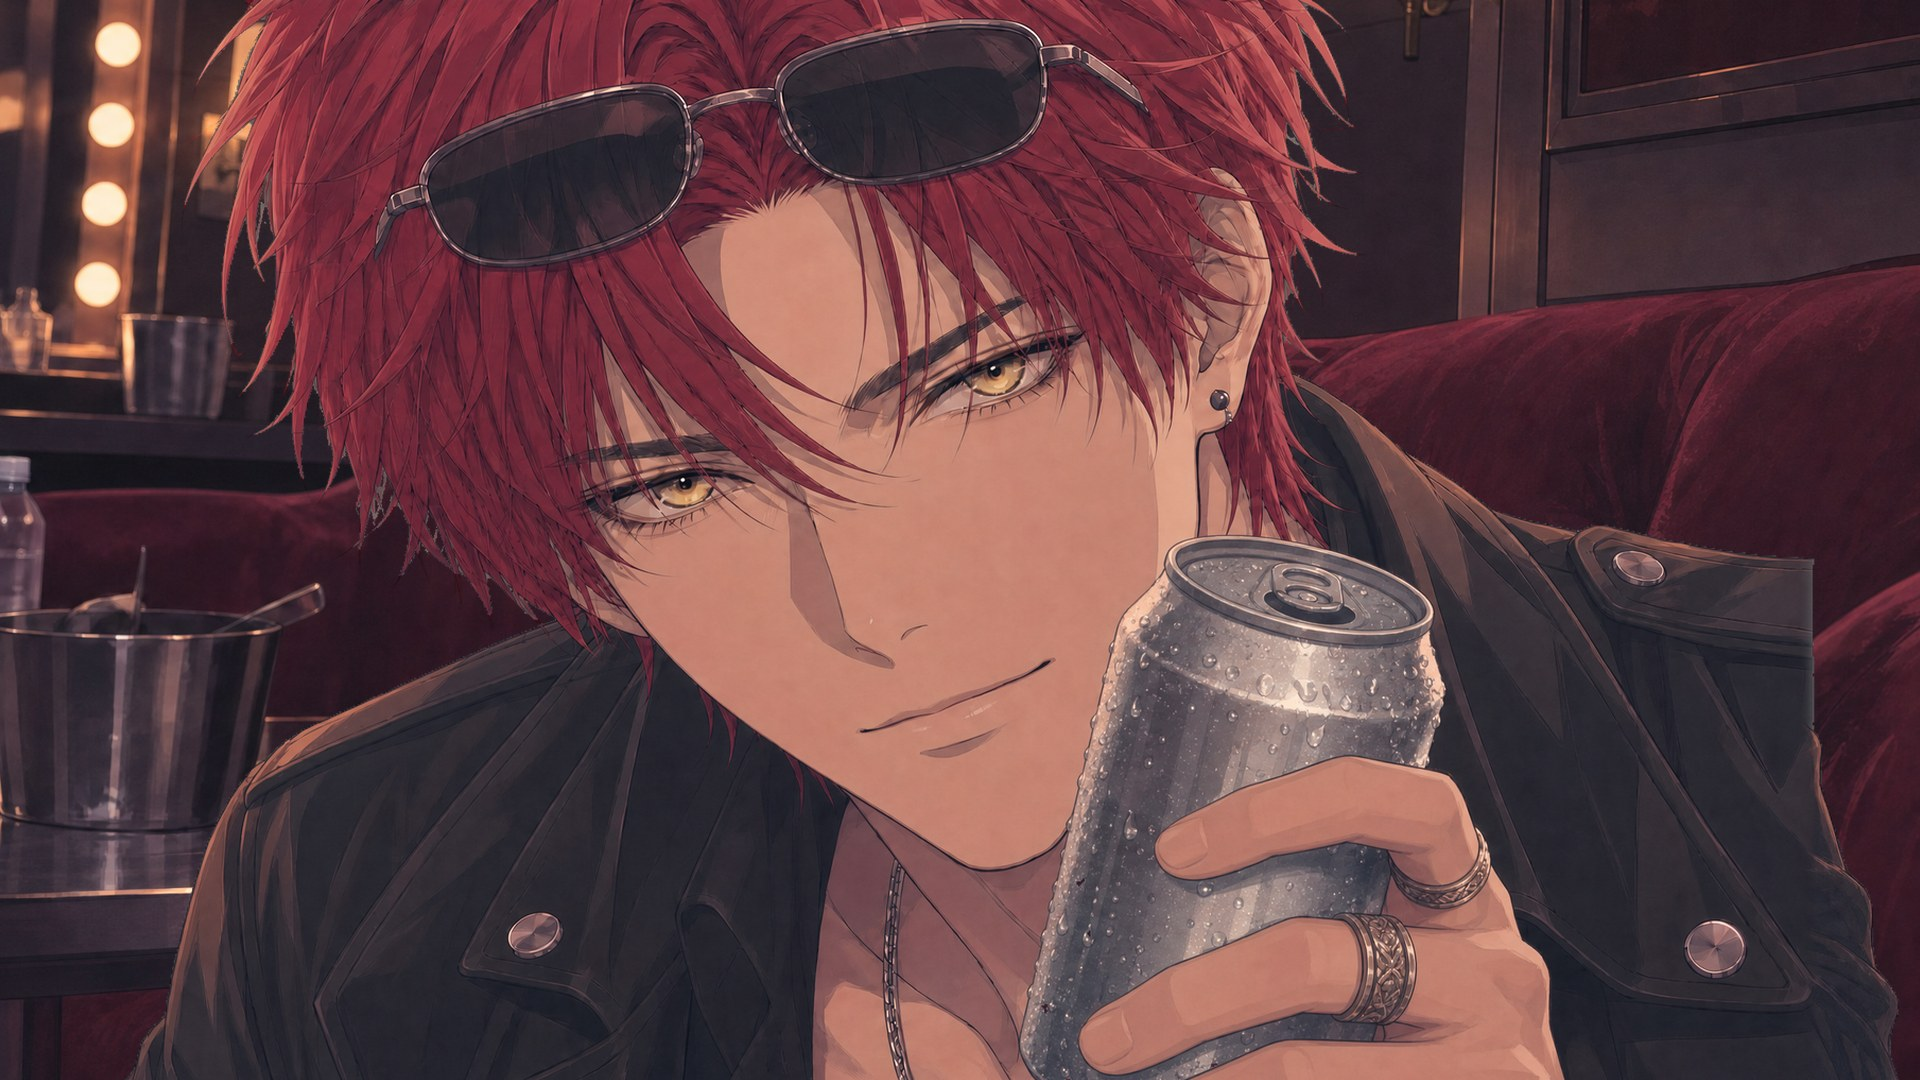
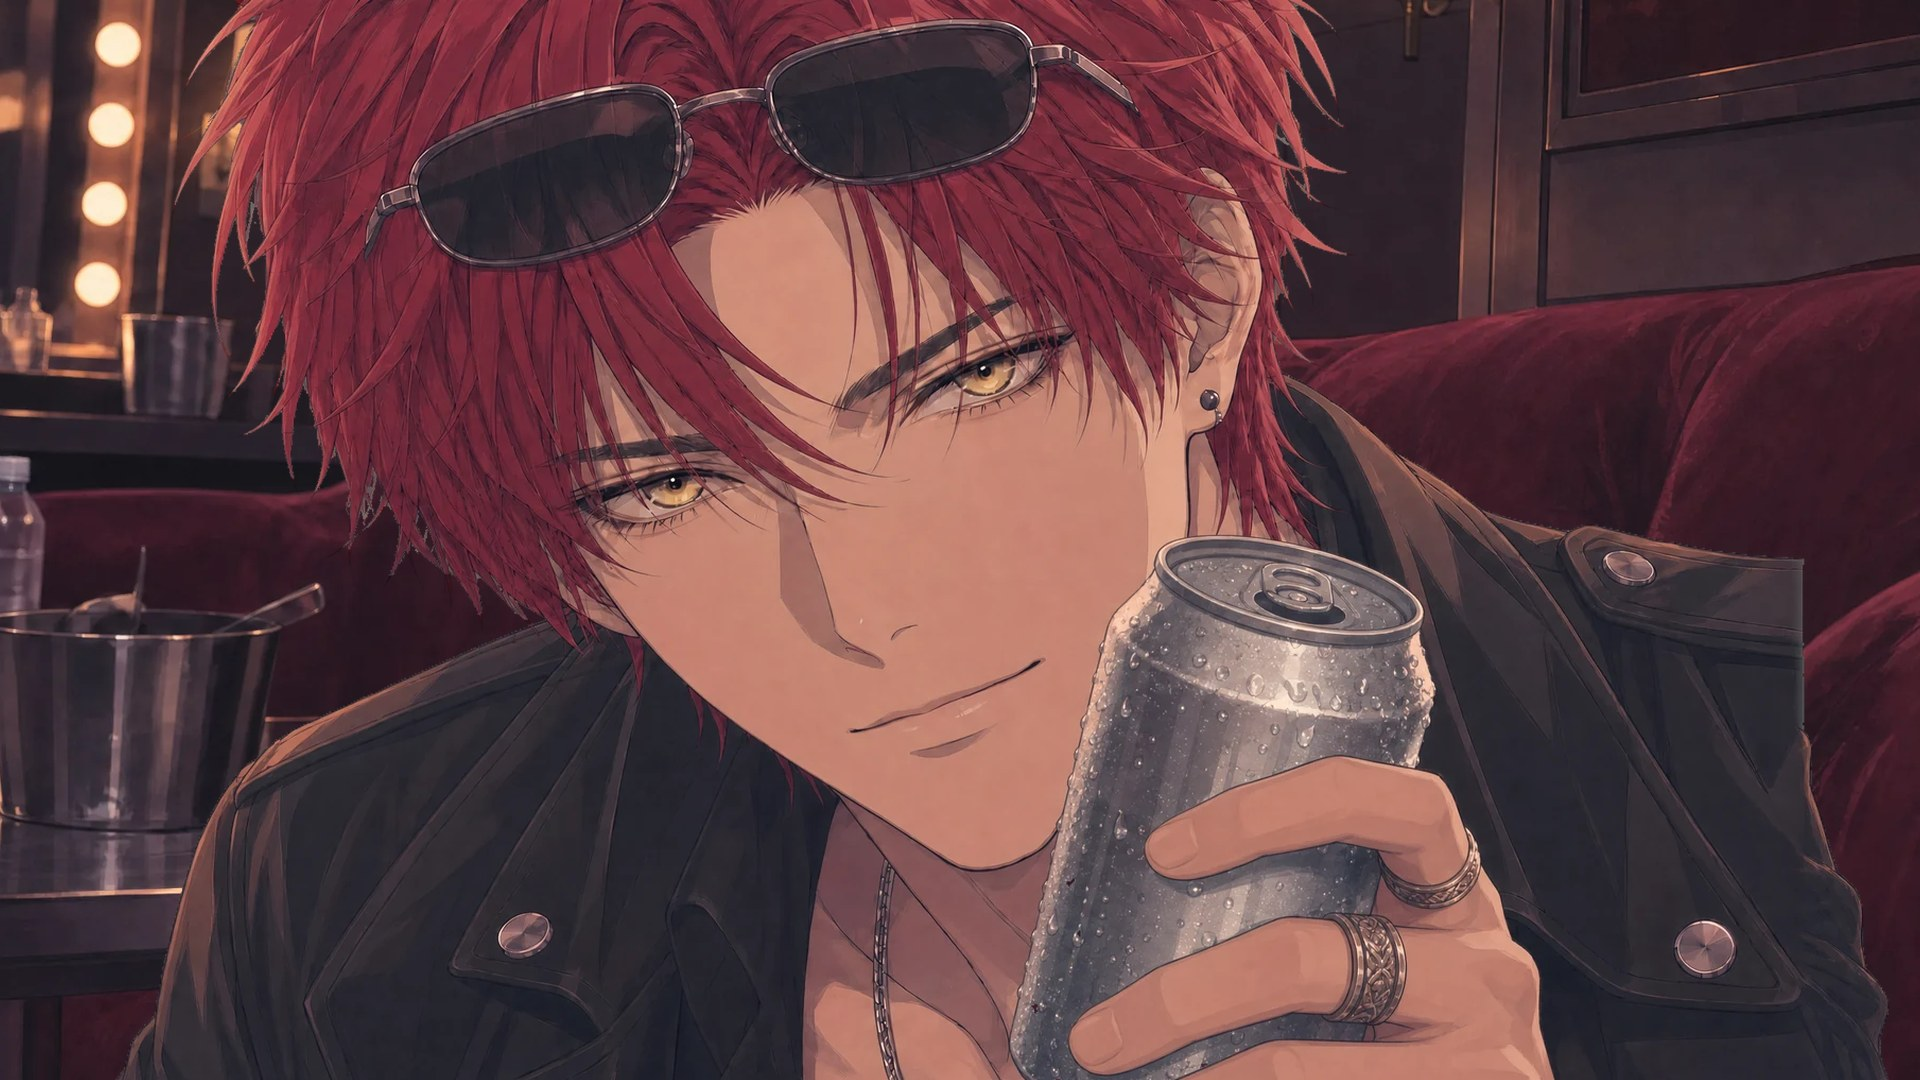
Demo21 can x 0.518, Demo30 kakigori y 1.09: complete figures ≥ 1 % inside the frame edge

diff --git a/demos/for-women/Demo21_JinLounge/media/layers.js b/demos/for-women/Demo21_JinLounge/media/layers.js
@@ -97,7 +97,7 @@ window.MOHEAT_LAYERS = {
     "src": "art/char_can.webp?v=3694f544",
     "w": 1700,
     "h": 1038,
-    "x": 0.5232,
+    "x": 0.518,
     "y": 1.02,
     "height": 1.02,
     "box": [

diff --git a/demos/for-women/Demo30_SakuFestival/media/layers.js b/demos/for-women/Demo30_SakuFestival/media/layers.js
@@ -178,7 +178,7 @@ window.MOHEAT_LAYERS = {
     "w": 1421,
     "h": 1435,
     "x": 0.45,
-    "y": 1.06,
+    "y": 1.09,
     "height": 1.08,
     "box": [
      536,
